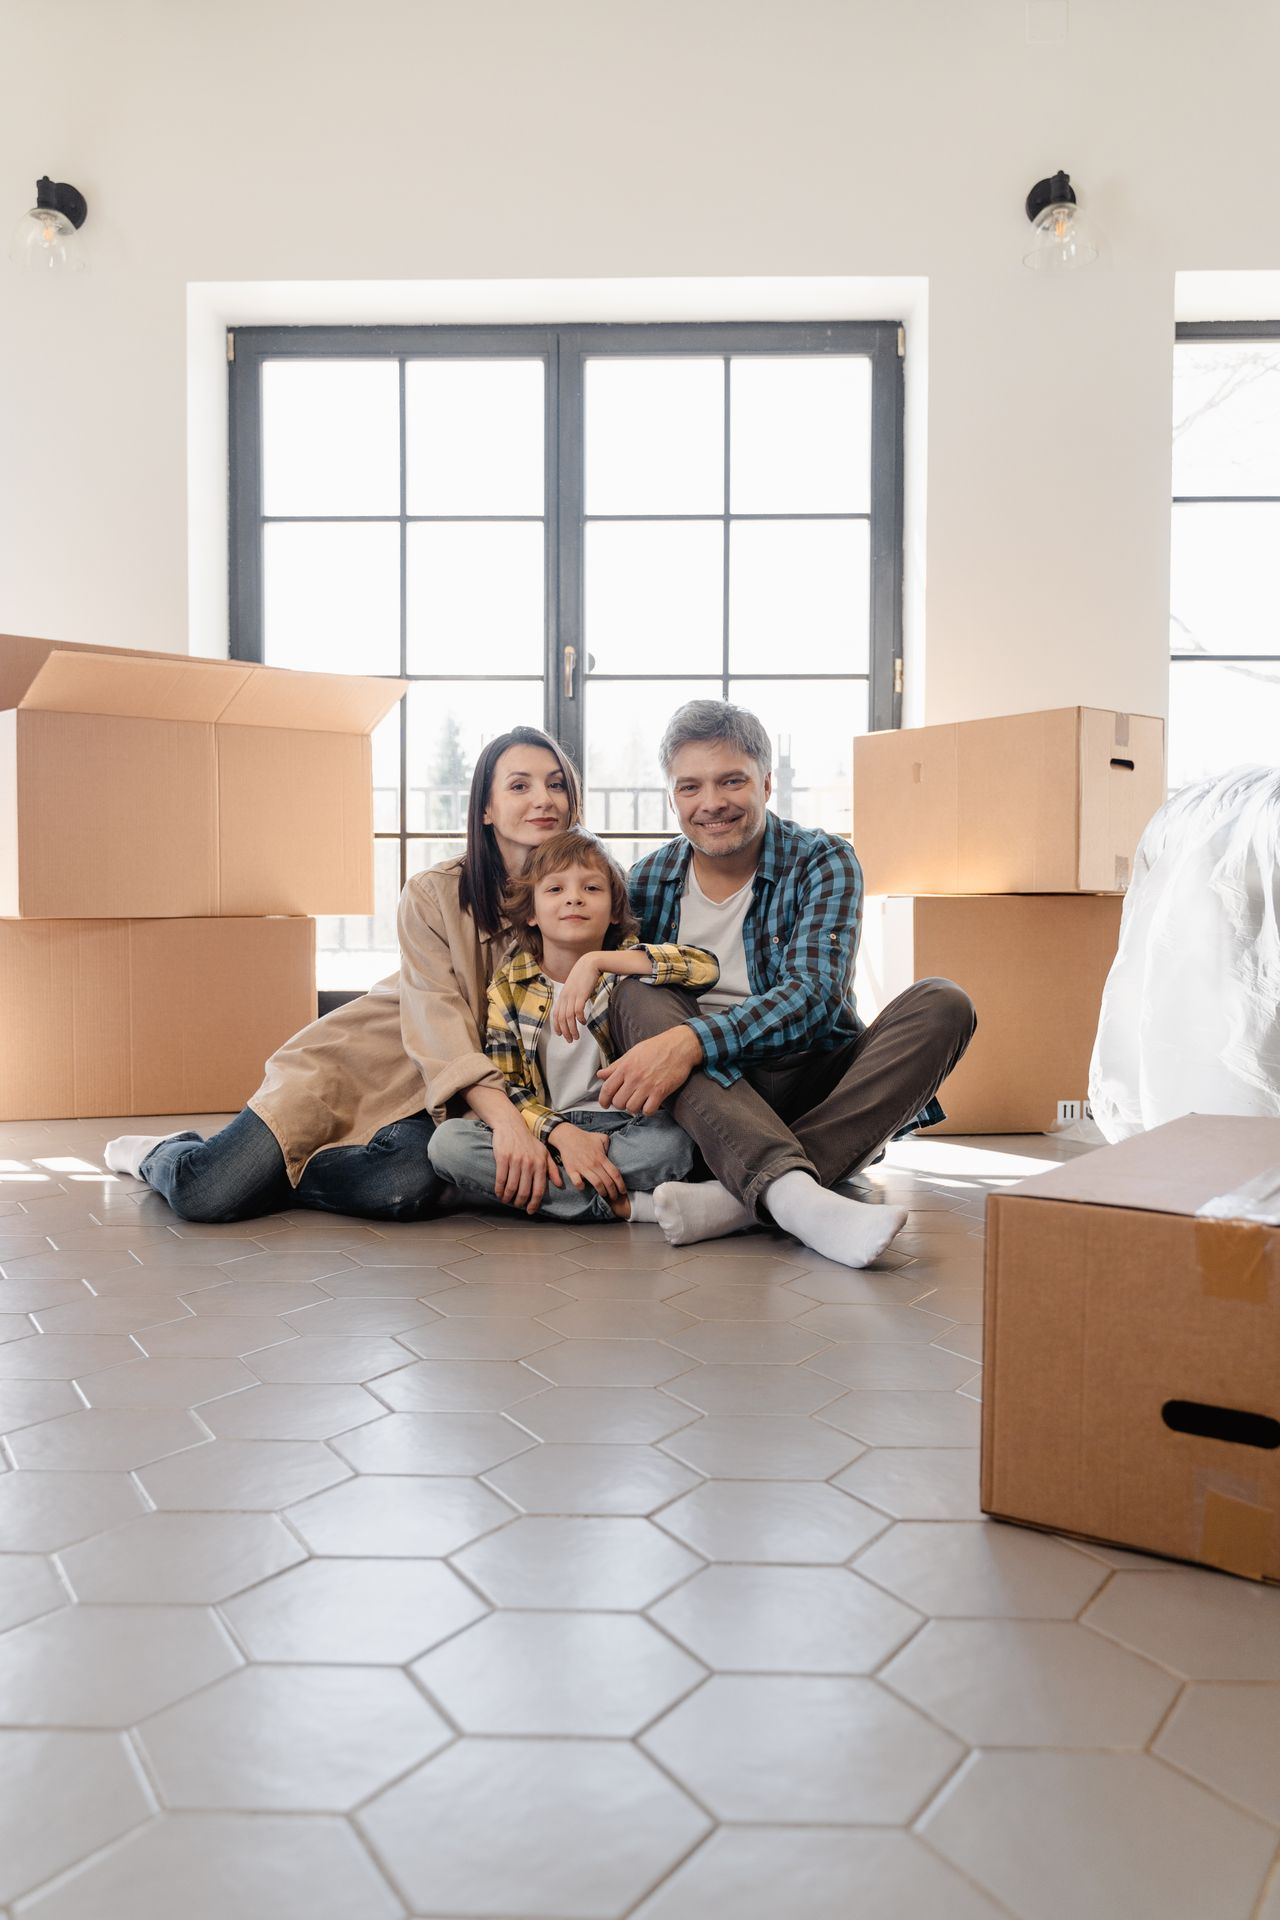
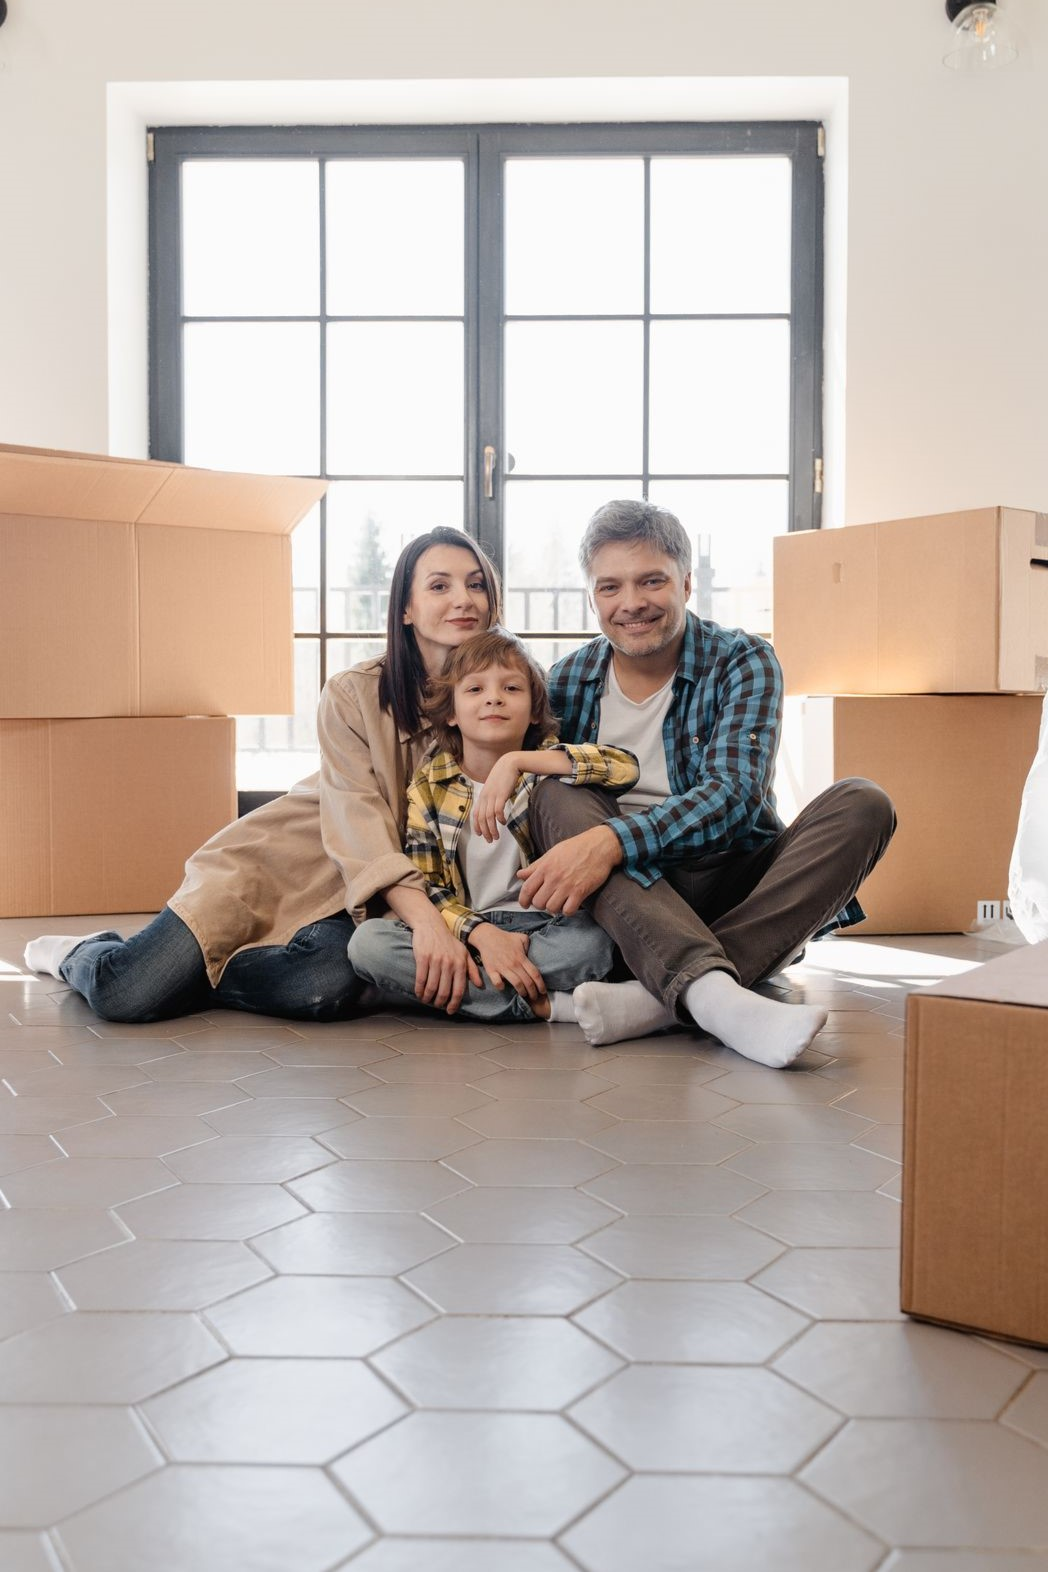
v2/9-04:38

diff --git a/components/Header/Header.js b/components/Header/Header.js
@@ -86,10 +86,10 @@ export function Header() {
         >
           <X className="h-8 w-8" />
         </button>
-        <ul className="w-full px-8 text-center flex flex-col items-center justify-center h-full">
-          <li className="w-full mb-4 flex justify-center">
+        <ul className="w-full px-8 text-left flex flex-col justify-center h-full">
+          <li className="w-full mb-4 flex justify-start">
             <Link href="/" className="block py-3 transition-colors" onClick={closeMenu}>
-              <Image src="/assets/logo1.png" width={220} height={70} alt="Inicio" className="mx-auto" />
+              <Image src="/assets/logo1.png" width={180} height={60} alt="Inicio" className="brightness-0 invert" />
             </Link>
           </li>
           <li className="w-full mt-6 mb-4">

diff --git a/components/Servicios/Servicios.js b/components/Servicios/Servicios.js
@@ -39,14 +39,14 @@ const ServiceItem = ({ service, index }) => {
                 return;
             }
 
-            // On mobile, trigger when the item crosses the vertical center of the screen
+            // On mobile, trigger when the item crosses the exact vertical center of the screen
             observer = new IntersectionObserver(
                 ([entry]) => {
                     setIsActive(entry.isIntersecting);
                 },
                 {
                     root: null,
-                    rootMargin: "-45% 0px -45% 0px",
+                    rootMargin: "-50% 0px -49% 0px", // 1% slice precisely at the center
                     threshold: 0
                 }
             );
